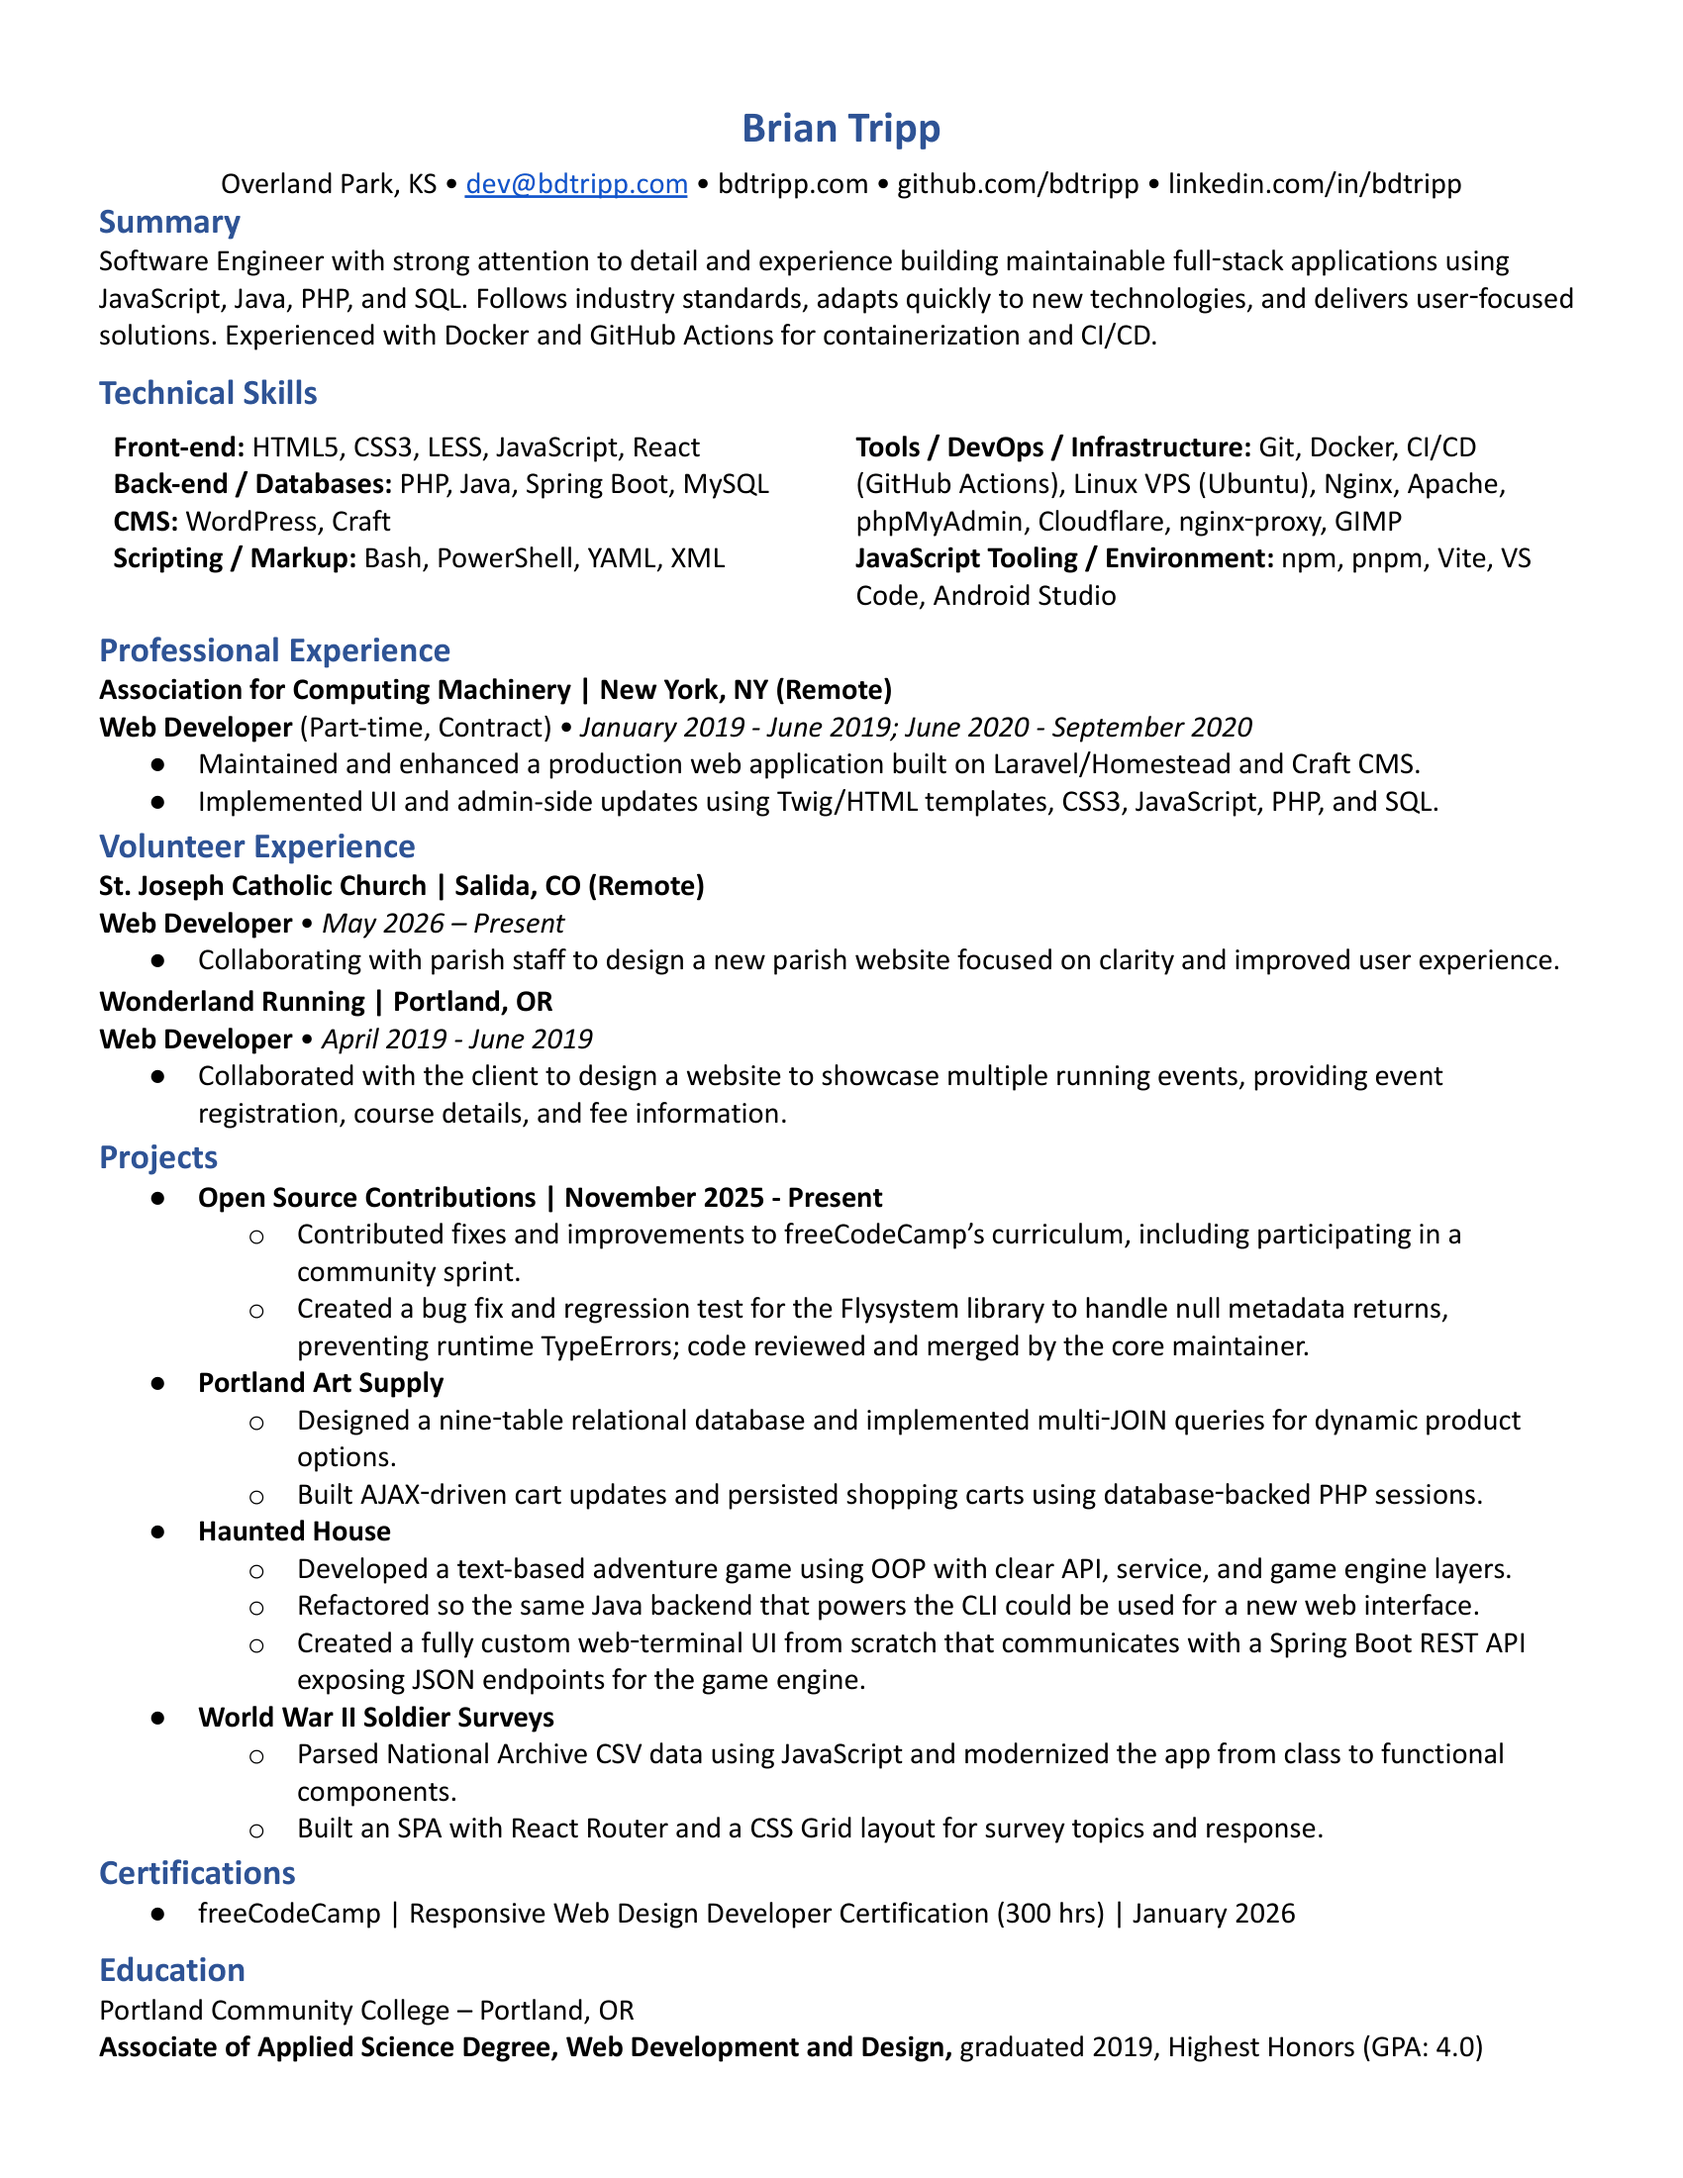
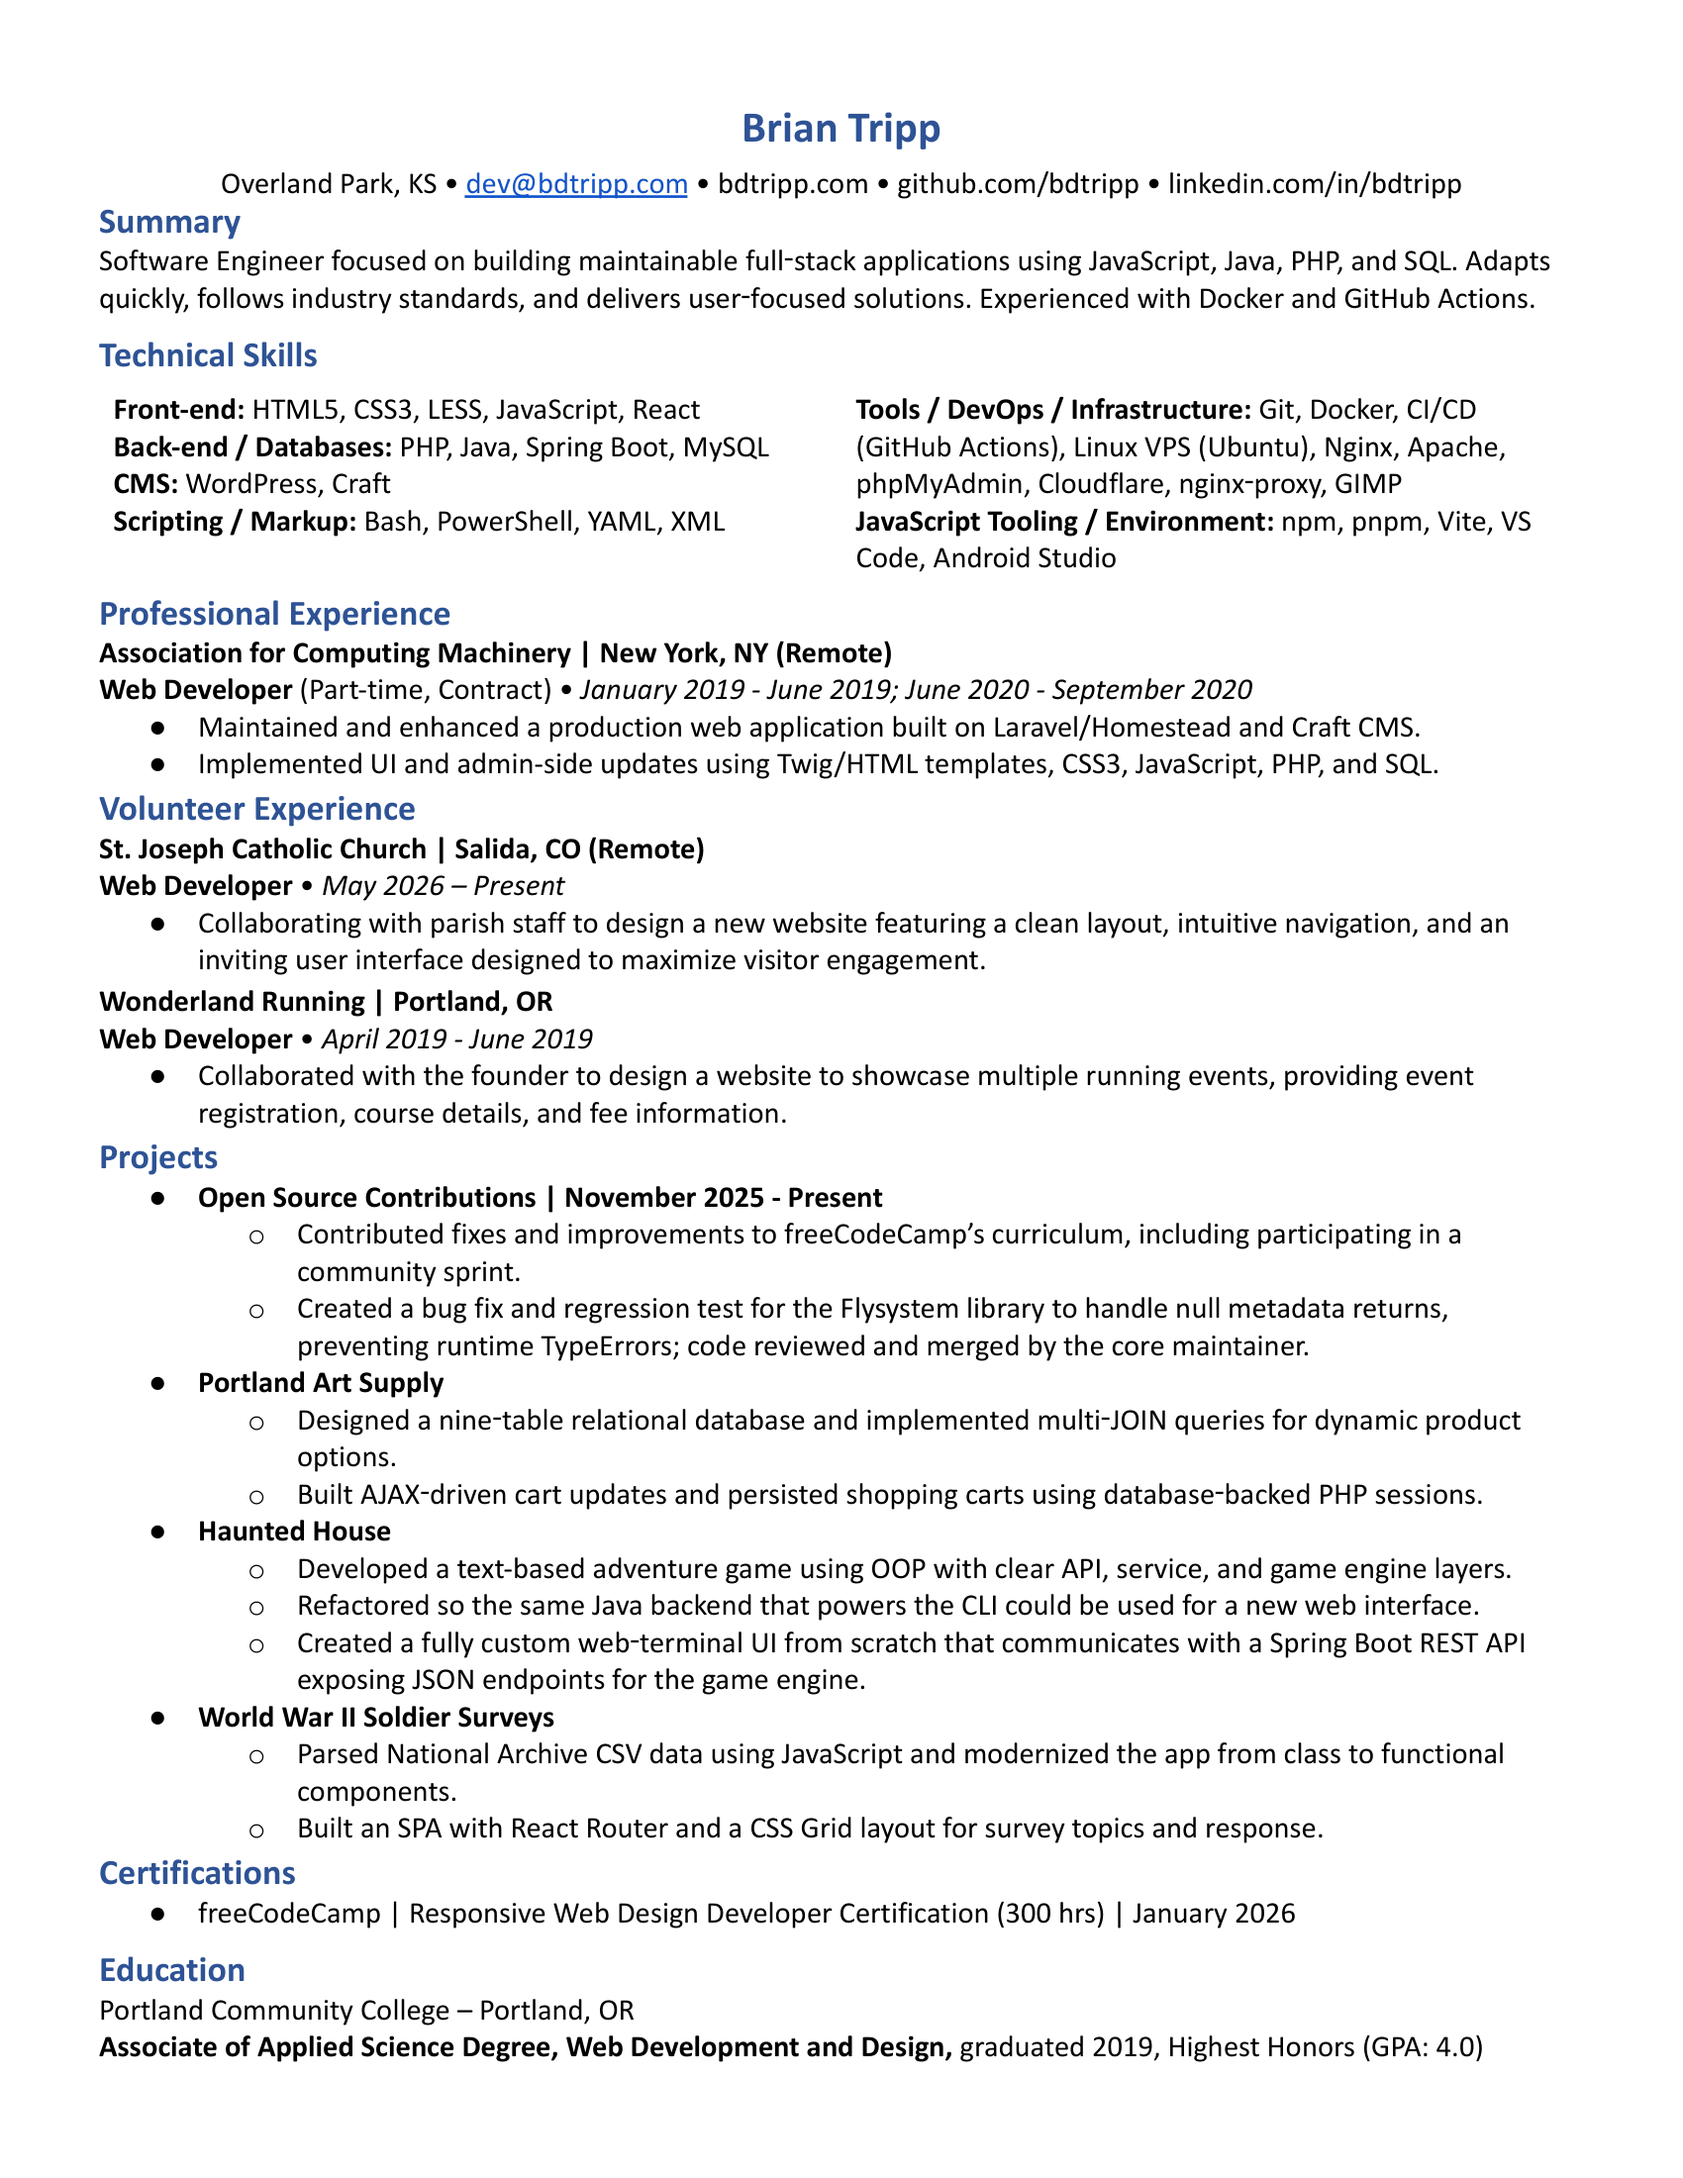
chore: update resume

Changed region(s): [[0.0624, 0.0927, 0.9353, 0.4636]]

diff --git a/public/index.php b/public/index.php
@@ -1309,11 +1309,11 @@ startActivity(intent);
             <h3>Resume</h3>
             <div class="card">
                 <div id="icons">
-                    <a href="documents/brian_tripp_resume.pdf?v=050126" target="_blank">
+                    <a href="documents/brian_tripp_resume.pdf?v=062326" target="_blank">
                         <img id="pdf_icon" src="images/icons/pdf_icon.png">
                     </a>
                 </div>
-                <img src="documents/resume_preview.png?v=050126" alt="Resume preview">
+                <img src="documents/resume_preview.png?v=062326" alt="Resume preview">
             </div>
         </section>
         
